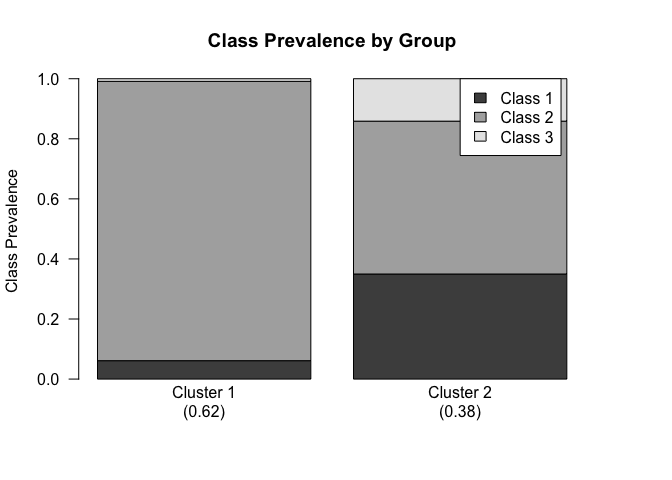
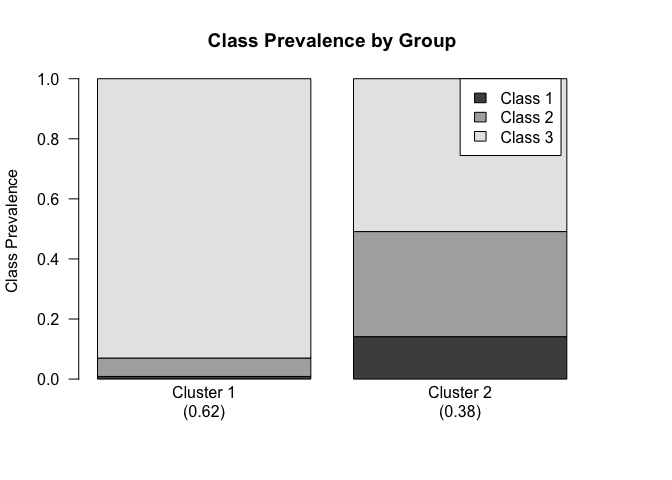
README

Changed region(s): [[0.125, 0.1562, 0.4688, 0.8125], [0.5, 0.25, 0.8438, 0.5], [0.5, 0.5625, 0.8438, 0.7188]]

diff --git a/README.md b/README.md
@@ -105,10 +105,10 @@ summary(mglca)
 #> 
 #> Mean Prevalence for latent classes for each group:
 #>             Class 1 Class 2 Class 3
-#> <= HS       0.27011 0.30479 0.42510
-#> HIGH SCHOOL 0.38661 0.20474 0.40865
-#> COLLEGE     0.51168 0.15035 0.33797
-#> GRADUATE    0.74073 0.15689 0.10239
+#> <= HS       0.27011 0.30478 0.42511
+#> HIGH SCHOOL 0.38661 0.20473 0.40865
+#> COLLEGE     0.51168 0.15034 0.33797
+#> GRADUATE    0.74073 0.15688 0.10239
 #> 
 #> Number of parameters : 26 
 #> Number of groups : 4 
@@ -131,15 +131,15 @@ summary(mglca)
 #> Gamma :
 #>             Class 1 Class 2 Class 3
 #> <= HS        0.2701  0.3048  0.4251
-#> HIGH SCHOOL  0.3866  0.2047  0.4086
+#> HIGH SCHOOL  0.3866  0.2047  0.4087
 #> COLLEGE      0.5117  0.1503  0.3380
 #> GRADUATE     0.7407  0.1569  0.1024
 #> 
 #> Rho (Y = 1) :
 #>         DEFECT   HLTH   RAPE   POOR SINGLE NOMORE
 #> Class 1 0.9848 1.0000 0.9902 0.9451 0.9417 0.9978
-#> Class 2 0.0715 0.4613 0.0699 0.0000 0.0000 0.0175
-#> Class 3 0.8348 0.9792 0.8592 0.1140 0.0527 0.1015
+#> Class 2 0.0715 0.4612 0.0699 0.0000 0.0000 0.0175
+#> Class 3 0.8348 0.9792 0.8592 0.1139 0.0527 0.1015
 plot(mglca)
 ```
 
@@ -161,10 +161,10 @@ summary(mglcr)
 #> 
 #> Mean Prevalence for latent classes for each group:
 #>             Class 1 Class 2 Class 3
-#> <= HS       0.41709 0.31364 0.26926
-#> HIGH SCHOOL 0.40375 0.21045 0.38580
-#> COLLEGE     0.33333 0.15513 0.51154
-#> GRADUATE    0.09758 0.16203 0.74040
+#> <= HS       0.31364 0.41709 0.26926
+#> HIGH SCHOOL 0.21045 0.40375 0.38580
+#> COLLEGE     0.15513 0.33333 0.51154
+#> GRADUATE    0.16203 0.09758 0.74040
 #> 
 #> Number of parameters : 28 
 #> Number of groups : 4 
@@ -187,48 +187,48 @@ summary(mglcr)
 #> Beta :
 #> Intercepts :
 #>                    Class 1/3 Class 2/3
-#> Group :<= HS          0.5249   -0.0910
-#> Group :HIGH SCHOOL    0.1416   -0.8701
-#> Group :COLLEGE       -0.3260   -1.4714
-#> Group :GRADUATE      -1.9376   -1.7669
+#> Group :<= HS         -0.0910    0.5249
+#> Group :HIGH SCHOOL   -0.8701    0.1416
+#> Group :COLLEGE       -1.4714   -0.3260
+#> Group :GRADUATE      -1.7669   -1.9376
 #> 
 #> Coefficients :
 #> Class 1/3 Class 2/3 
-#>   -0.1774    0.4293 
+#>    0.4293   -0.1774 
 #> 
 #> Rho (Y = 1) :
 #>         DEFECT   HLTH   RAPE   POOR SINGLE NOMORE
-#> Class 1 0.8424 0.9811 0.8662 0.1164 0.0544 0.1030
-#> Class 2 0.0803 0.4714 0.0793 0.0000 0.0000 0.0190
+#> Class 1 0.0803 0.4714 0.0793 0.0000 0.0000 0.0190
+#> Class 2 0.8424 0.9811 0.8662 0.1164 0.0544 0.1030
 #> Class 3 0.9848 1.0000 0.9902 0.9457 0.9422 0.9981
 coef(mglcr)
 #> Intercept :
 #> 
 #> Group <= HS:
 #>             Odds Ratio Coefficient  Std. Error  t value  Pr(>|t|)  
-#> Class 1 / 3    1.69034     0.52493     0.27985    1.876    0.0613 .
-#> Class 2 / 3    0.91301    -0.09101     0.30770   -0.296    0.7675  
+#> Class 1 / 3    0.91301    -0.09101     0.30770   -0.296    0.7675  
+#> Class 2 / 3    1.69034     0.52493     0.27985    1.876    0.0613 .
 #> ---
 #> Signif. codes:  0 '***' 0.001 '**' 0.01 '*' 0.05 '.' 0.1 ' ' 1
 #> 
 #> Group HIGH SCHOOL:
 #>             Odds Ratio Coefficient  Std. Error  t value  Pr(>|t|)    
-#> Class 1 / 3     1.1521      0.1416      0.1713    0.827  0.408877    
-#> Class 2 / 3     0.4189     -0.8701      0.2437   -3.570  0.000392 ***
+#> Class 1 / 3     0.4189     -0.8701      0.2437   -3.570  0.000392 ***
+#> Class 2 / 3     1.1521      0.1416      0.1713    0.827  0.408879    
 #> ---
 #> Signif. codes:  0 '***' 0.001 '**' 0.01 '*' 0.05 '.' 0.1 ' ' 1
 #> 
 #> Group COLLEGE:
 #>             Odds Ratio Coefficient  Std. Error  t value  Pr(>|t|)    
-#> Class 1 / 3     0.7218     -0.3260      0.2061   -1.582     0.114    
-#> Class 2 / 3     0.2296     -1.4714      0.2901   -5.073   5.6e-07 ***
+#> Class 1 / 3     0.2296     -1.4714      0.2901   -5.073   5.6e-07 ***
+#> Class 2 / 3     0.7218     -0.3260      0.2061   -1.582     0.114    
 #> ---
 #> Signif. codes:  0 '***' 0.001 '**' 0.01 '*' 0.05 '.' 0.1 ' ' 1
 #> 
 #> Group GRADUATE:
 #>             Odds Ratio Coefficient  Std. Error  t value  Pr(>|t|)    
-#> Class 1 / 3     0.1441     -1.9376      0.4819   -4.021  6.73e-05 ***
-#> Class 2 / 3     0.1709     -1.7669      0.3932   -4.493  8.80e-06 ***
+#> Class 1 / 3     0.1709     -1.7669      0.3932   -4.493  8.80e-06 ***
+#> Class 2 / 3     0.1441     -1.9376      0.4819   -4.021  6.73e-05 ***
 #> ---
 #> Signif. codes:  0 '***' 0.001 '**' 0.01 '*' 0.05 '.' 0.1 ' ' 1
 #> 
@@ -236,13 +236,13 @@ coef(mglcr)
 #> 
 #> Class 1 / 3 :
 #>           Odds Ratio Coefficient  Std. Error  t value  Pr(>|t|)    
-#> SEXFEMALE    0.83744    -0.17740     0.04866   -3.646  0.000296 ***
+#> SEXFEMALE    1.53615     0.42928     0.05974    7.186  2.55e-12 ***
 #> ---
 #> Signif. codes:  0 '***' 0.001 '**' 0.01 '*' 0.05 '.' 0.1 ' ' 1
 #> 
 #> Class 2 / 3 :
 #>           Odds Ratio Coefficient  Std. Error  t value  Pr(>|t|)    
-#> SEXFEMALE    1.53615     0.42928     0.05974    7.186  2.55e-12 ***
+#> SEXFEMALE    0.83744    -0.17740     0.04866   -3.646  0.000296 ***
 #> ---
 #> Signif. codes:  0 '***' 0.001 '**' 0.01 '*' 0.05 '.' 0.1 ' ' 1
 
@@ -267,8 +267,8 @@ summary(mlca)
 #> 
 #> Mean Prevalence for latent classes:
 #>           Class 1 Class 2 Class 3
-#> Cluster 1 0.06129 0.92994 0.00877
-#> Cluster 2 0.34985 0.50889 0.14125
+#> Cluster 1 0.00877 0.06129 0.92994
+#> Cluster 2 0.14126 0.34985 0.50889
 #> 
 #> 
 #> Number of parameters : 20 
@@ -294,14 +294,14 @@ summary(mlca)
 #> 
 #> Gamma :
 #>           Class 1 Class 2 Class 3
-#> Cluster 1  0.0613  0.9299  0.0088
-#> Cluster 2  0.3499  0.5089  0.1413
+#> Cluster 1  0.0088  0.0613  0.9299
+#> Cluster 2  0.1413  0.3499  0.5089
 #> 
 #> Rho (Y = 1) :
 #>          ECIGT ECIGAR   ESLT EELCIGT EHOOKAH
-#> Class 1 0.3436 0.1970 0.1265  0.7780  0.0439
-#> Class 2 0.0062 0.0043 0.0086  0.0405  0.0057
-#> Class 3 0.9120 0.9755 0.5621  0.9776  0.5345
+#> Class 1 0.9120 0.9755 0.5621  0.9776  0.5345
+#> Class 2 0.3436 0.1970 0.1265  0.7780  0.0439
+#> Class 3 0.0062 0.0043 0.0086  0.0405  0.0057
 plot(mlca)
 ```
 
@@ -326,12 +326,12 @@ summary(mlcr)
 #> 
 #> Mean Prevalence for latent clusters:
 #> Cluster 1 Cluster 2 
-#>   0.55362   0.44638 
+#>   0.44638   0.55362 
 #> 
 #> Mean Prevalence for latent classes:
 #>           Class 1 Class 2 Class 3
-#> Cluster 1 0.02161 0.88265 0.09574
-#> Cluster 2 0.11855 0.58757 0.29388
+#> Cluster 1 0.58757 0.11855 0.29388
+#> Cluster 2 0.88265 0.02161 0.09574
 #> 
 #> 
 #> Number of parameters : 22 
@@ -353,39 +353,39 @@ summary(mlcr)
 #> Estimated model parameters :
 #> Delta :
 #> Cluster 1 Cluster 2 
-#>    0.5536    0.4464 
+#>    0.4464    0.5536 
 #> 
 #> Beta (level 1) :
 #> $Cluster1
 #>                    Class 1/3 Class 2/3
-#> (Intercept)          -1.9555    2.9074
-#> SCH_LEVHigh School    0.7066   -1.9399
+#> (Intercept)           1.6793   -1.4687
+#> SCH_LEVHigh School   -1.9399    0.7066
 #> 
 #> $Cluster2
 #>                    Class 1/3 Class 2/3
-#> (Intercept)          -1.4687    1.6793
-#> SCH_LEVHigh School    0.7066   -1.9399
+#> (Intercept)           2.9074   -1.9555
+#> SCH_LEVHigh School   -1.9399    0.7066
 #> 
 #> 
 #> Rho (Y = 1) :
 #>          ECIGT ECIGAR   ESLT EELCIGT EHOOKAH
-#> Class 1 0.8959 0.9690 0.5382  0.9779  0.5014
-#> Class 2 0.0034 0.0037 0.0072  0.0352  0.0056
+#> Class 1 0.0034 0.0037 0.0072  0.0352  0.0056
+#> Class 2 0.8959 0.9690 0.5382  0.9779  0.5014
 #> Class 3 0.3144 0.1631 0.1187  0.7292  0.0388
 coef(mlcr)
 #> Intercept :
 #> 
 #> Cluster 1 :
 #>             Odds Ratio Coefficient  Std. Error  t value  Pr(>|t|)    
-#> Class 1 / 3     0.1415     -1.9555      0.9124   -2.143    0.0323 *  
-#> Class 2 / 3    18.3086      2.9074      0.4662    6.237  5.84e-10 ***
+#> Class 1 / 3     5.3620      1.6793      0.3924    4.280  1.99e-05 ***
+#> Class 2 / 3     0.2302     -1.4687      0.6269   -2.343    0.0193 *  
 #> ---
 #> Signif. codes:  0 '***' 0.001 '**' 0.01 '*' 0.05 '.' 0.1 ' ' 1
 #> 
 #> Cluster 2 :
 #>             Odds Ratio Coefficient  Std. Error  t value  Pr(>|t|)    
-#> Class 1 / 3     0.2302     -1.4687      0.6269   -2.343    0.0193 *  
-#> Class 2 / 3     5.3620      1.6793      0.3924    4.280  1.99e-05 ***
+#> Class 1 / 3    18.3086      2.9074      0.4662    6.237  5.84e-10 ***
+#> Class 2 / 3     0.1415     -1.9555      0.9124   -2.143    0.0323 *  
 #> ---
 #> Signif. codes:  0 '***' 0.001 '**' 0.01 '*' 0.05 '.' 0.1 ' ' 1
 #> 
@@ -393,14 +393,14 @@ coef(mlcr)
 #> Level 1 Coefficients :
 #> 
 #> Class 1 / 3 :
-#>                    Odds Ratio Coefficient  Std. Error  t value  Pr(>|t|)  
-#> SCH_LEVHigh School     2.0270      0.7066      0.3474    2.034    0.0422 *
+#>                    Odds Ratio Coefficient  Std. Error  t value  Pr(>|t|)    
+#> SCH_LEVHigh School     0.1437     -1.9399      0.2192    -8.85    <2e-16 ***
 #> ---
 #> Signif. codes:  0 '***' 0.001 '**' 0.01 '*' 0.05 '.' 0.1 ' ' 1
 #> 
 #> Class 2 / 3 :
-#>                    Odds Ratio Coefficient  Std. Error  t value  Pr(>|t|)    
-#> SCH_LEVHigh School     0.1437     -1.9399      0.2192    -8.85    <2e-16 ***
+#>                    Odds Ratio Coefficient  Std. Error  t value  Pr(>|t|)  
+#> SCH_LEVHigh School     2.0270      0.7066      0.3474    2.034    0.0422 *
 #> ---
 #> Signif. codes:  0 '***' 0.001 '**' 0.01 '*' 0.05 '.' 0.1 ' ' 1
 ```
